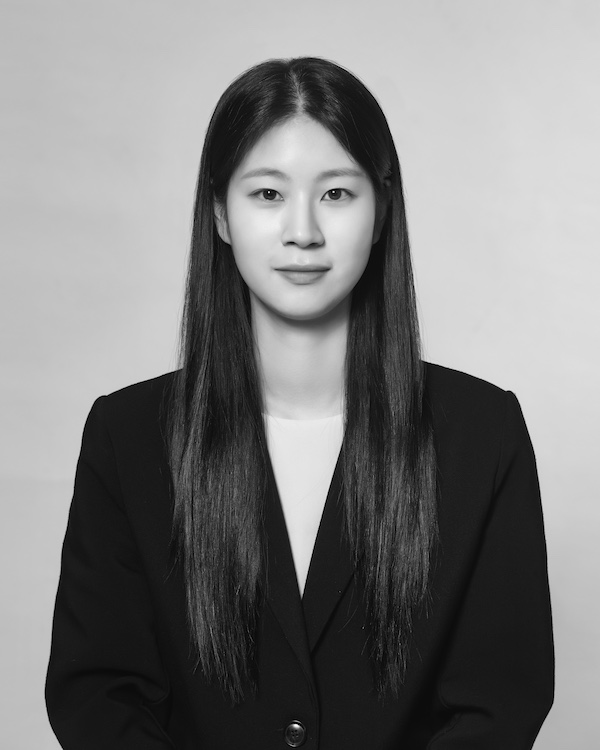
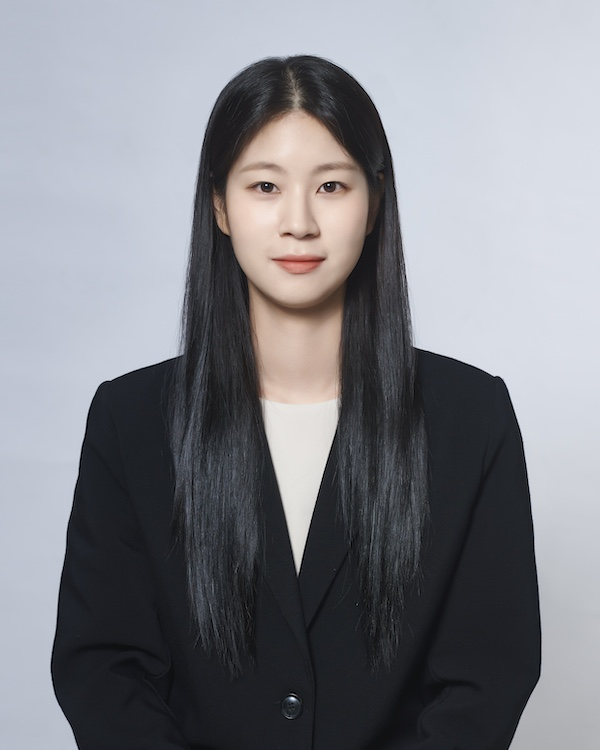
chore: 이미지 변경

diff --git a/src/components/about/PlaneMesh/PlaneMesh.tsx b/src/components/about/PlaneMesh/PlaneMesh.tsx
@@ -21,7 +21,7 @@ const PlaneMesh = () => {
   // });
 
   /* Texture */
-  const texture = useTexture('/assets/images/profile-color.jpg');
+  const texture = useTexture('/assets/images/profile.jpg');
   const { width, height } = texture?.image || { width: 1, height: 1 }; // 기본값 추가
   const scale = useAspect(width, height, 0.65);
 
